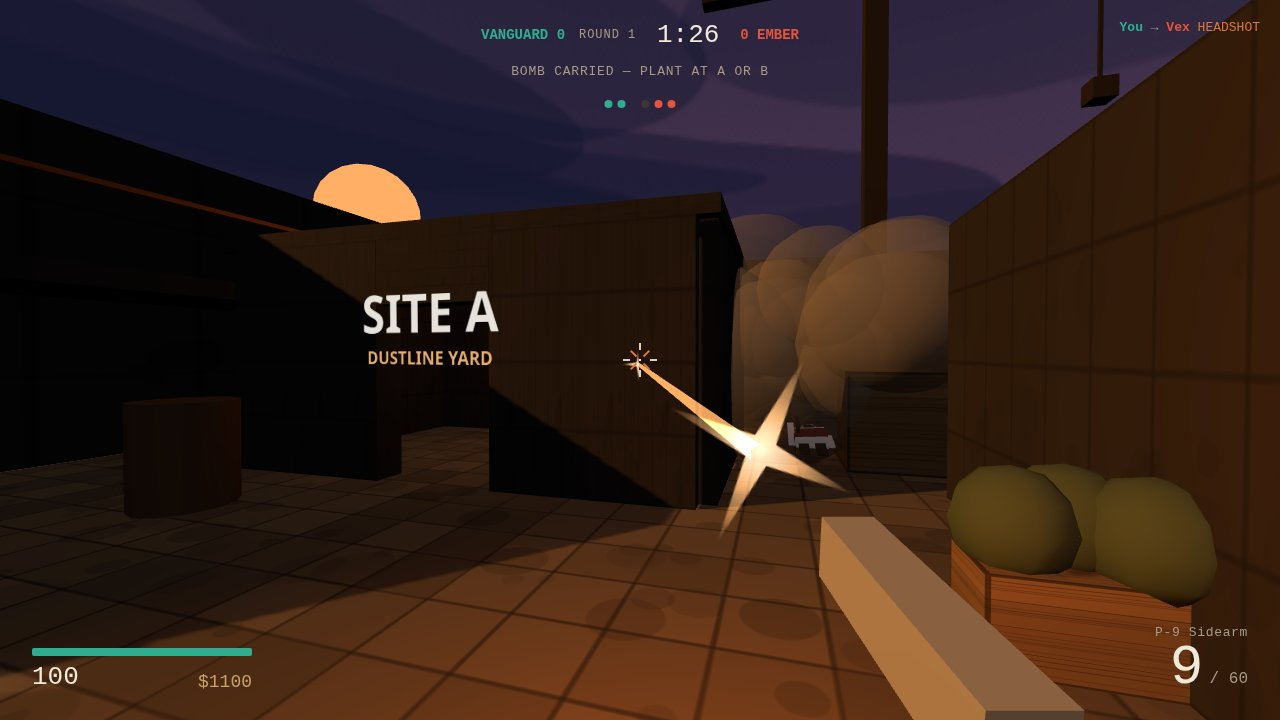
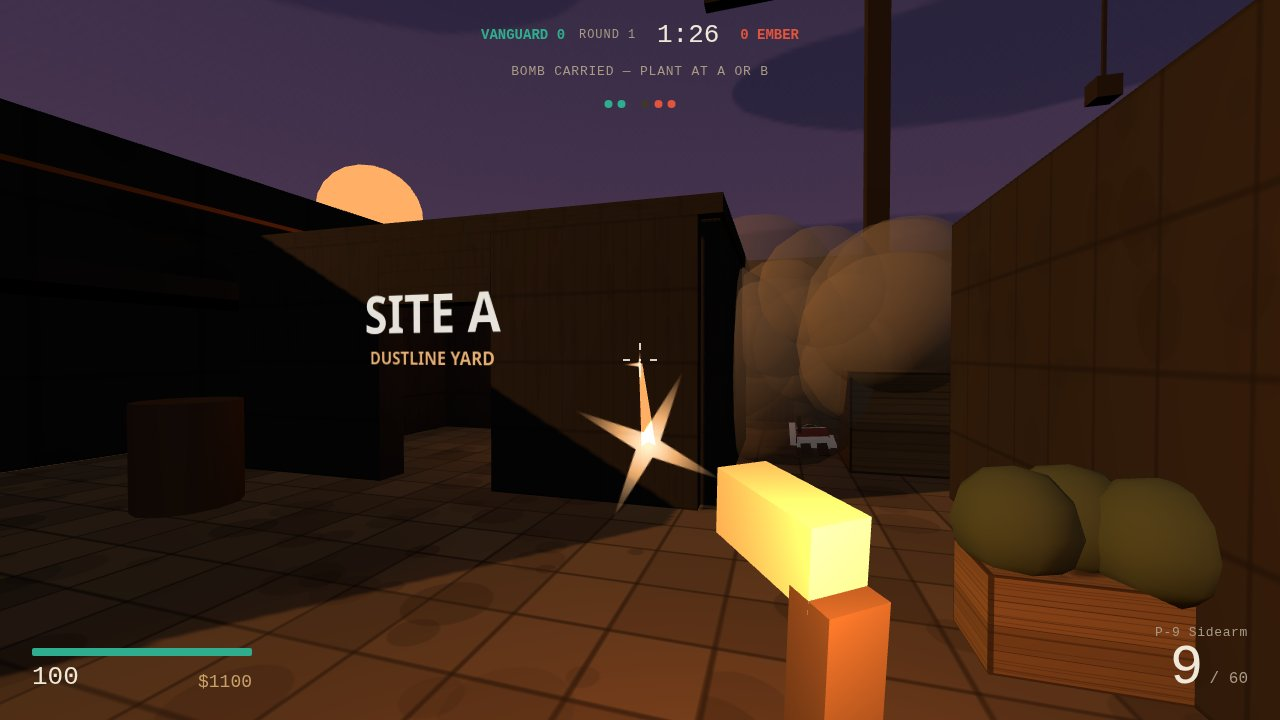
DUSTLINE v2.3: viewmodel visibility — bigger, brighter, clear of touch UI

diff --git a/game/src/weapons.js b/game/src/weapons.js
@@ -42,16 +42,16 @@ function buildViewModel(id) {
   const wood = new THREE.MeshStandardMaterial({ color: new THREE.Color('#8a5a28'), roughness: 0.7, metalness: 0 });
   const model = new THREE.Group();
   const part = (mat, w, h, d, x, y, z) => {
-    const m = new THREE.Mesh(new THREE.BoxGeometry(w, h, d), mat);
-    m.position.set(x, y, z);
+    const m = new THREE.Mesh(new THREE.BoxGeometry(w * 1.8, h * 1.8, d), mat);
+    m.position.set(x * 1.8, y * 1.8, z);
     model.add(m);
     return m;
   };
   if (id === 'knife') {
-    const blade = part(steel, 0.015, 0.05, 0.3, 0, 0.01, -0.2);
+    const blade = part(steel, 0.015, 0.03, 0.45, 0, 0.01, -0.28);
     blade.rotation.x = -0.15;
-    part(grip, 0.03, 0.05, 0.12, 0, -0.01, 0.02);
-    model.position.set(0.22, -0.22, -0.38);
+    part(grip, 0.03, 0.07, 0.16, 0, -0.01, 0.02);
+    model.position.set(0.22, -0.24, -0.65);
   } else if (id === 'pistol' || id === 'p250' || id === 'deagle' || id === 'tec9' || id === 'dualies') {
     const len = id === 'deagle' ? 0.3 : id === 'tec9' ? 0.26 : 0.22;
     part(body, 0.05, 0.06, len, 0, 0, -0.05);
@@ -62,29 +62,29 @@ function buildViewModel(id) {
     }
     if (id === 'deagle') part(accent, 0.052, 0.02, 0.1, 0, 0.035, -0.12);
     if (id === 'tec9') part(accent, 0.05, 0.05, 0.06, 0, 0.02, -0.18);
-    model.position.set(0.2, -0.2, -0.36);
+    model.position.set(0.22, -0.24, -0.63);
   } else if (id === 'nova' || id === 'xm1014') {
     part(body, 0.09, 0.1, 0.42, 0, 0, 0);
     part(grip, 0.05, 0.05, 0.5, 0, 0.02, -0.4);
     part(accent, 0.07, 0.07, 0.14, 0, -0.03, -0.28);
     part(grip, 0.06, 0.08, 0.2, 0, -0.02, 0.3);
     if (id === 'xm1014') part(accent, 0.05, 0.14, 0.06, 0, -0.11, 0);
-    model.position.set(0.24, -0.2, -0.44);
+    model.position.set(0.24, -0.24, -0.71);
   } else if (id === 'smg' || id === 'p90' || id === 'mac10') {
     part(body, 0.08, 0.09, 0.3, 0, 0, 0);
     part(grip, 0.04, 0.04, 0.22, 0, 0.02, -0.25);
     part(accent, 0.05, id === 'p90' ? 0.1 : 0.16, 0.06, 0, -0.11, -0.02);
     if (id === 'p90') part(body, 0.09, 0.05, 0.34, 0, 0.06, -0.02);
-    model.position.set(0.22, -0.2, -0.4);
+    model.position.set(0.24, -0.24, -0.67);
   } else if (id === 'sniper' || id === 'awp' || id === 'sg553') {
     part(body, 0.07, 0.09, 0.5, 0, 0, 0);
     part(grip, 0.035, 0.035, id === 'awp' ? 0.65 : 0.55, 0, 0.02, -0.5);
-    const scope = new THREE.Mesh(new THREE.CylinderGeometry(0.035, 0.035, 0.16, 12), accent);
+    const scope = new THREE.Mesh(new THREE.CylinderGeometry(0.05, 0.05, 0.16, 12), accent);
     scope.rotation.x = Math.PI / 2;
-    scope.position.set(0, 0.08, -0.05);
+    scope.position.set(0, 0.11, -0.05);
     model.add(scope);
     part(grip, 0.06, 0.07, 0.2, 0, -0.02, 0.32);
-    model.position.set(0.24, -0.21, -0.46);
+    model.position.set(0.24, -0.24, -0.73);
   } else {
     part(body, 0.09, 0.1, 0.42, 0, 0, 0);
     part(grip, 0.045, 0.045, 0.4, 0, 0.025, -0.38);
@@ -92,8 +92,9 @@ function buildViewModel(id) {
     part(accent, 0.02, 0.05, 0.06, 0, 0.07, -0.1);
     if (id === 'm4') part(accent, 0.04, 0.12, 0.05, 0, -0.1, 0.05);
     if (id === 'ak47') part(wood, 0.05, 0.1, 0.06, 0, -0.09, 0.08);
-    model.position.set(0.24, -0.2, -0.42);
+    model.position.set(0.24, -0.24, -0.69);
   }
+  model.rotation.y = 0.35;
   model.userData.baseZ = model.position.z;
   return model;
 }
@@ -121,25 +122,35 @@ export function createArsenal(camera, audio) {
   for (const id of Object.keys(WEAPONS)) {
     items[id] = { mag: WEAPONS[id].mag, reserve: WEAPONS[id].reserve, owned: id === 'pistol' || id === 'knife' };
   }
-  const state = { current: 'pistol', cooldown: 0, reloadLeft: 0, flash: 0, kick: 0, grenades: 0, smokes: 0, flashes: 0, molotovs: 0, decoys: 0, grenadeSel: 'grenade', scoped: false, swing: 0, primarySlot: null, secondarySlot: 'pistol' };
+  const state = { current: 'pistol', cooldown: 0, reloadLeft: 0, flash: 0, kick: 0, grenades: 0, smokes: 0, flashes: 0, molotovs: 0, decoys: 0, grenadeSel: 'grenade', scoped: false, swing: 0, primarySlot: null, secondarySlot: 'pistol', touch: false, muzzle: new THREE.Vector3() };
   models.pistol.visible = true;
 
   function def() {
     return WEAPONS[state.current];
   }
 
-  function step(dt) {
+  function step(dt, aiming) {
     state.cooldown = Math.max(0, state.cooldown - dt);
     state.flash = Math.max(0, state.flash - dt);
     state.swing = Math.max(0, state.swing - dt);
     state.kick += (0 - state.kick) * Math.min(1, dt * 14);
     const model = models[state.current];
-    model.position.z = model.userData.baseZ + state.kick;
+    const k = Math.min(1, dt * 12);
+    const tx = aiming ? 0 : (state.touch ? -0.02 : 0.22);
+    const ty = aiming ? -0.1 : -0.24;
+    model.position.x += (tx - model.position.x) * k;
+    model.position.y += (ty - model.position.y) * k;
+    model.position.z += (model.userData.baseZ + state.kick - (aiming ? 0.05 : 0) - model.position.z) * k;
+    model.rotation.y += ((aiming ? 0 : 0.35) - model.rotation.y) * k;
     model.rotation.x = state.kick * 2.2;
+    model.visible = !(aiming && def().adsFov <= 30);
+    flash.position.set(model.position.x - 0.2, model.position.y + 0.03, model.position.z - 0.55);
+    flashLight.position.set(model.position.x, model.position.y + 0.15, model.position.z + 0.45);
+    state.muzzle.set(model.position.x - 0.2, model.position.y + 0.03, model.position.z - 0.55);
     model.rotation.z = state.swing > 0 ? -state.swing * 4 : 0;
     flash.visible = state.flash > 0;
     flash.rotation.z = state.flash * 30;
-    flashLight.intensity = state.flash > 0 ? 18 : 0;
+    flashLight.intensity = state.flash > 0 ? 18 : 2;
     if (state.reloadLeft > 0) {
       state.reloadLeft = Math.max(0, state.reloadLeft - dt);
       model.rotation.x = -0.55 * Math.min(1, (def().reloadTime - state.reloadLeft) * 2);
@@ -158,6 +169,7 @@ export function createArsenal(camera, audio) {
     items,
     def,
     step,
+    setTouch(v) { state.touch = !!v; },
     ready() {
       const item = items[state.current];
       return item.mag > 0 && state.cooldown === 0 && state.reloadLeft === 0;

diff --git a/game/src/main.js b/game/src/main.js
@@ -83,6 +83,7 @@ if (touch.active) {
   document.getElementById('desktop-keys').hidden = true;
   document.getElementById('touch-keys').hidden = false;
 }
+arsenal.setTouch(touch.active);
 document.getElementById('buy-close').addEventListener('click', () => input.press('KeyB'));
 const raycaster = new THREE.Raycaster();
 raycaster.far = 120;
@@ -455,7 +456,7 @@ function shoot(spread) {
   shotsFired += 1;
   bloom = Math.min(0.02, bloom + 0.0035);
   camera.getWorldDirection(direction);
-  camera.localToWorld(muzzleWorld.set(0.24, -0.18, -0.95));
+  camera.localToWorld(muzzleWorld.copy(arsenal.state.muzzle));
   const pellets = def.pellets || 1;
   let anyHit = false;
   scene.updateMatrixWorld(true);
@@ -739,7 +740,7 @@ function step(dt) {
     }
   }
 
-  arsenal.step(dt);
+  arsenal.step(dt, aiming);
   grenades.step(dt);
   smoke.step(dt);
   lobbed.step(dt);
@@ -877,7 +878,7 @@ function runShot(name) {
     settle(100);
     aimAt(new THREE.Vector3(-15.5, 1.3, -10));
     shoot(0);
-    arsenal.step(0);
+    arsenal.step(0, false);
   } else if (name === 'end') {
     match.state.score.atk = 1;
     match.state.score.def = 0;
